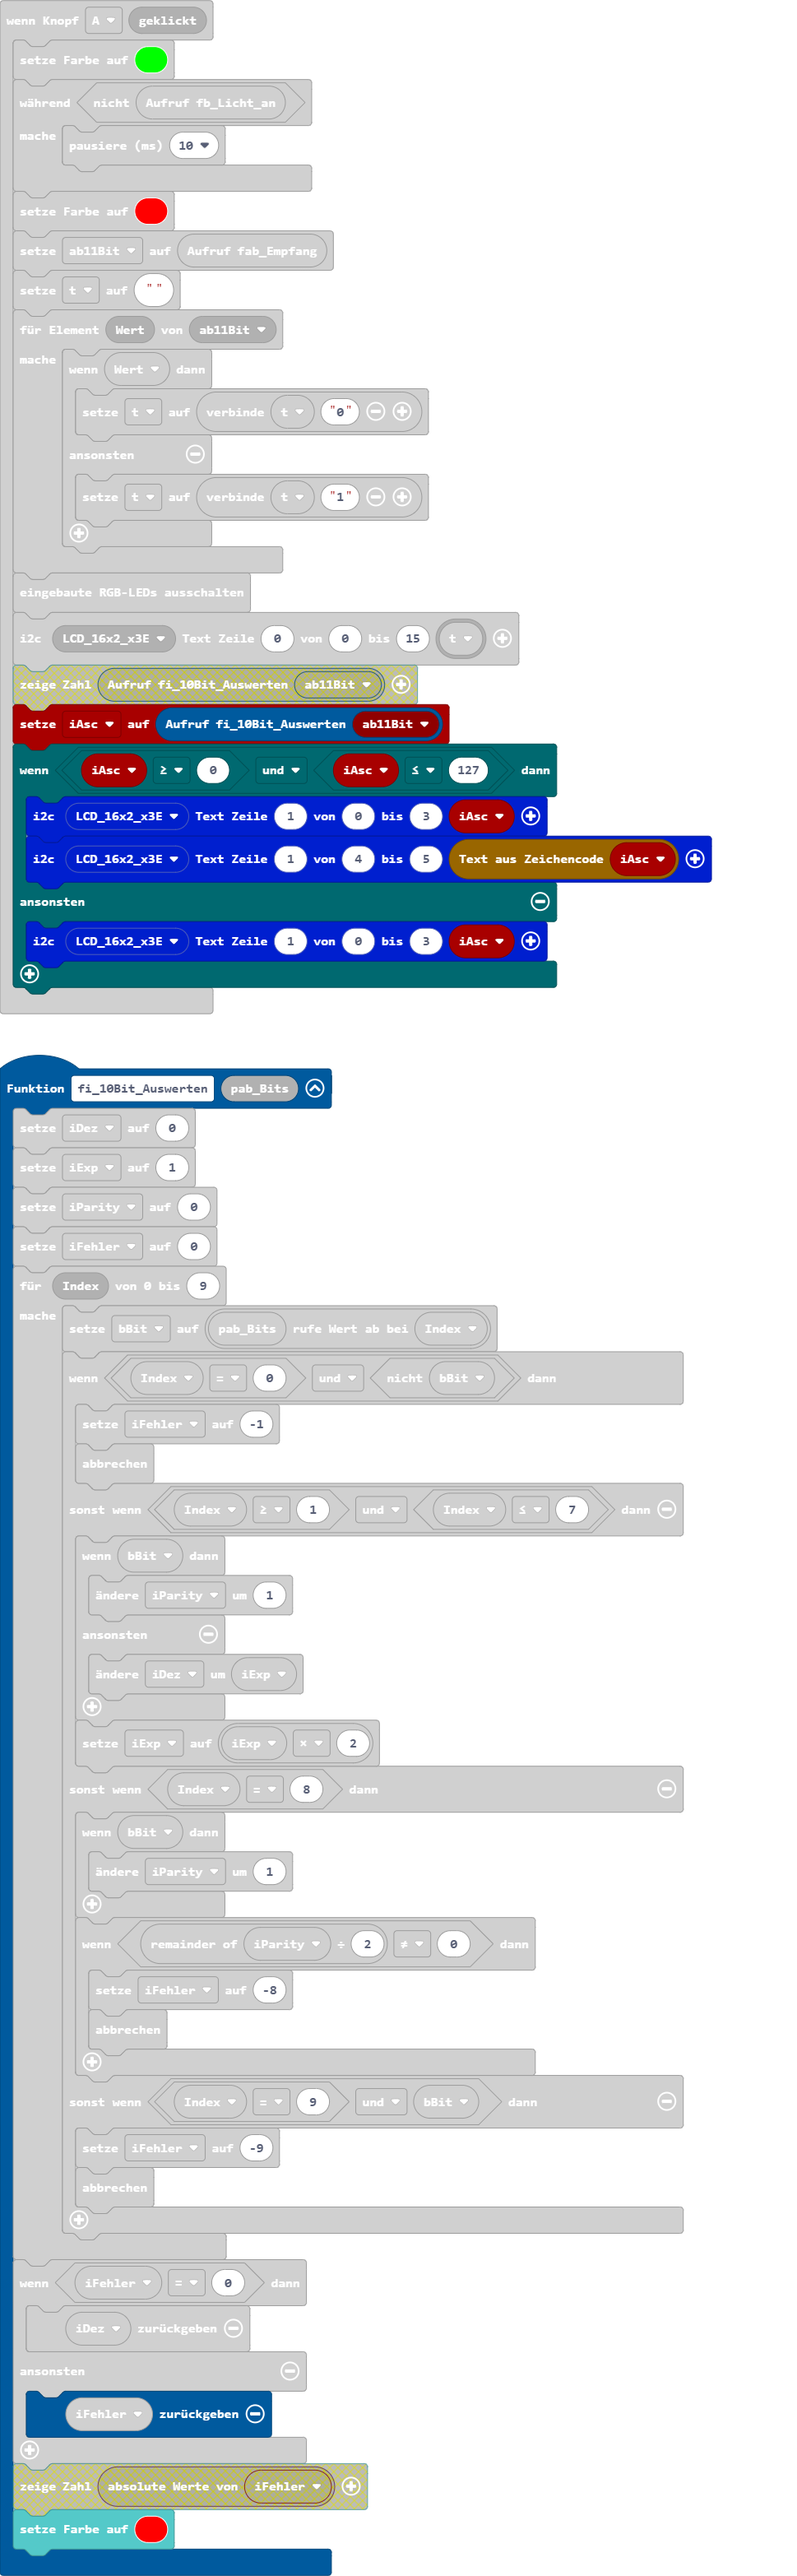
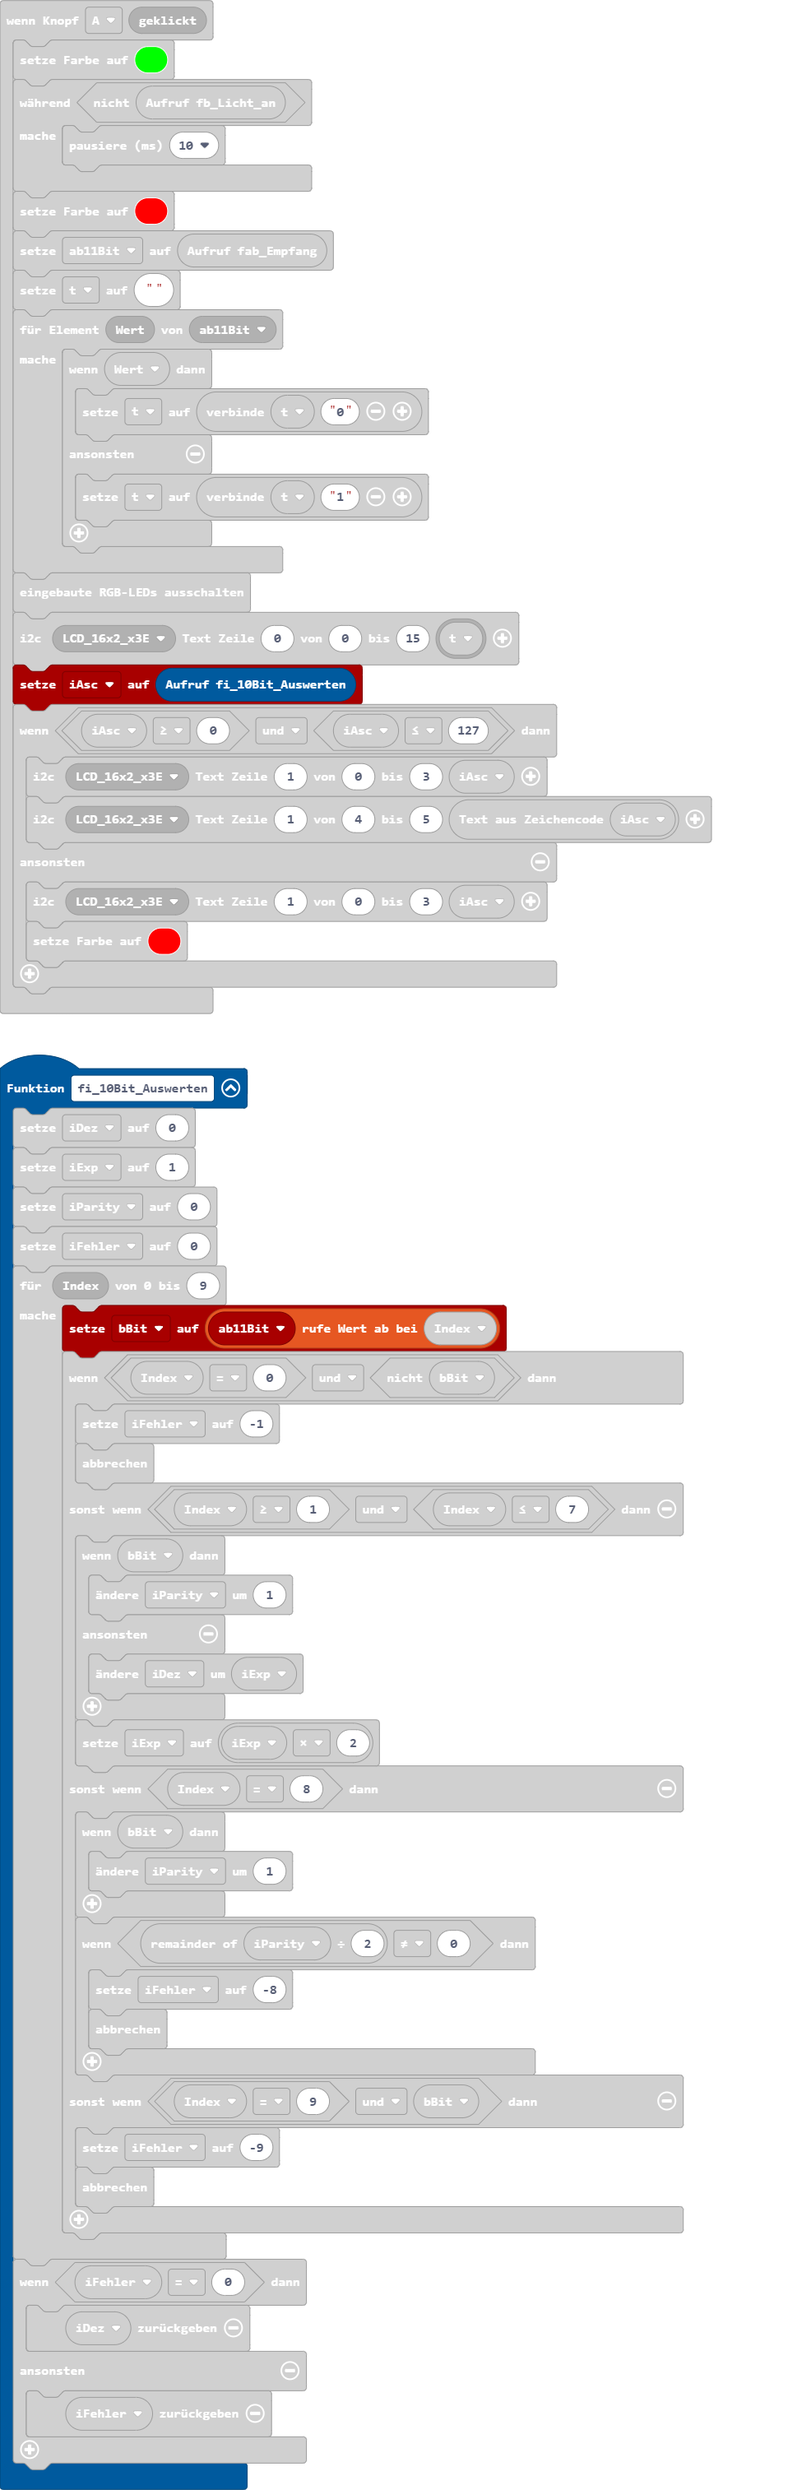
Aktualisiere main.blocks, main.ts

diff --git a/main.ts b/main.ts
@@ -1,10 +1,10 @@
-function fi_10Bit_Auswerten (pab_Bits: any[]) {
+function fi_10Bit_Auswerten () {
     iDez = 0
     iExp = 1
     iParity = 0
     iFehler = 0
     for (let Index = 0; Index <= 9; Index++) {
-        bBit = pab_Bits[Index]
+        bBit = ab11Bit[Index]
         if (Index == 0 && !(bBit)) {
             iFehler = -1
             break;
@@ -61,7 +61,7 @@ input.onButtonEvent(Button.A, input.buttonEventClick(), function () {
     }
     basic.turnRgbLedOff()
     lcd16x2rgb.writeText(lcd16x2rgb.lcd16x2_eADDR(lcd16x2rgb.eADDR_LCD.LCD_16x2_x3E), 0, 0, 15, lcd16x2rgb.lcd16x2_text(t))
-    iAsc = fi_10Bit_Auswerten(ab11Bit)
+    iAsc = fi_10Bit_Auswerten()
     if (iAsc >= 0 && iAsc <= 127) {
         lcd16x2rgb.writeText(lcd16x2rgb.lcd16x2_eADDR(lcd16x2rgb.eADDR_LCD.LCD_16x2_x3E), 1, 0, 3, iAsc)
         lcd16x2rgb.writeText(lcd16x2rgb.lcd16x2_eADDR(lcd16x2rgb.eADDR_LCD.LCD_16x2_x3E), 1, 4, 5, String.fromCharCode(iAsc))
@@ -78,10 +78,10 @@ input.onButtonEvent(Button.B, input.buttonEventClick(), function () {
 })
 let iAsc = 0
 let t = ""
-let ab11Bit: boolean[] = []
 let iPause_ms = 0
 let ab_empfangene_Bits: boolean[] = []
-let bBit: any = null
+let ab11Bit: boolean[] = []
+let bBit = false
 let iFehler = 0
 let iParity = 0
 let iExp = 0
